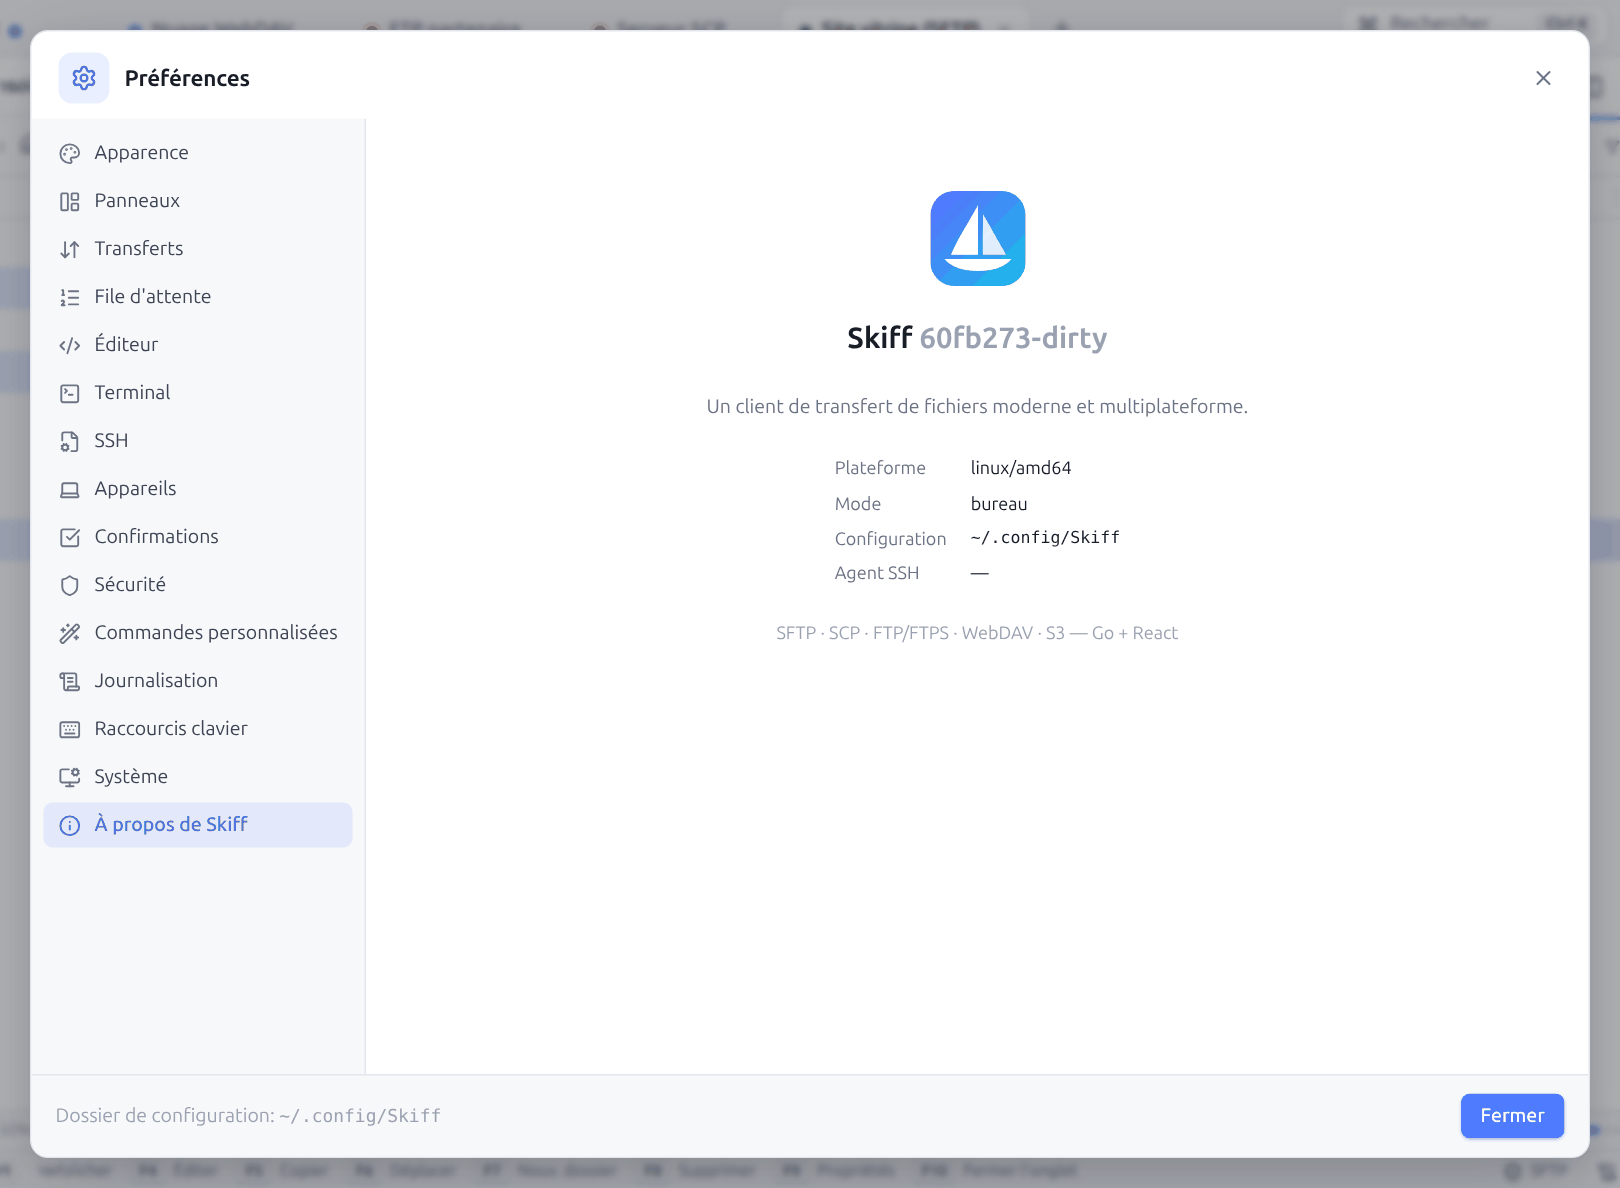
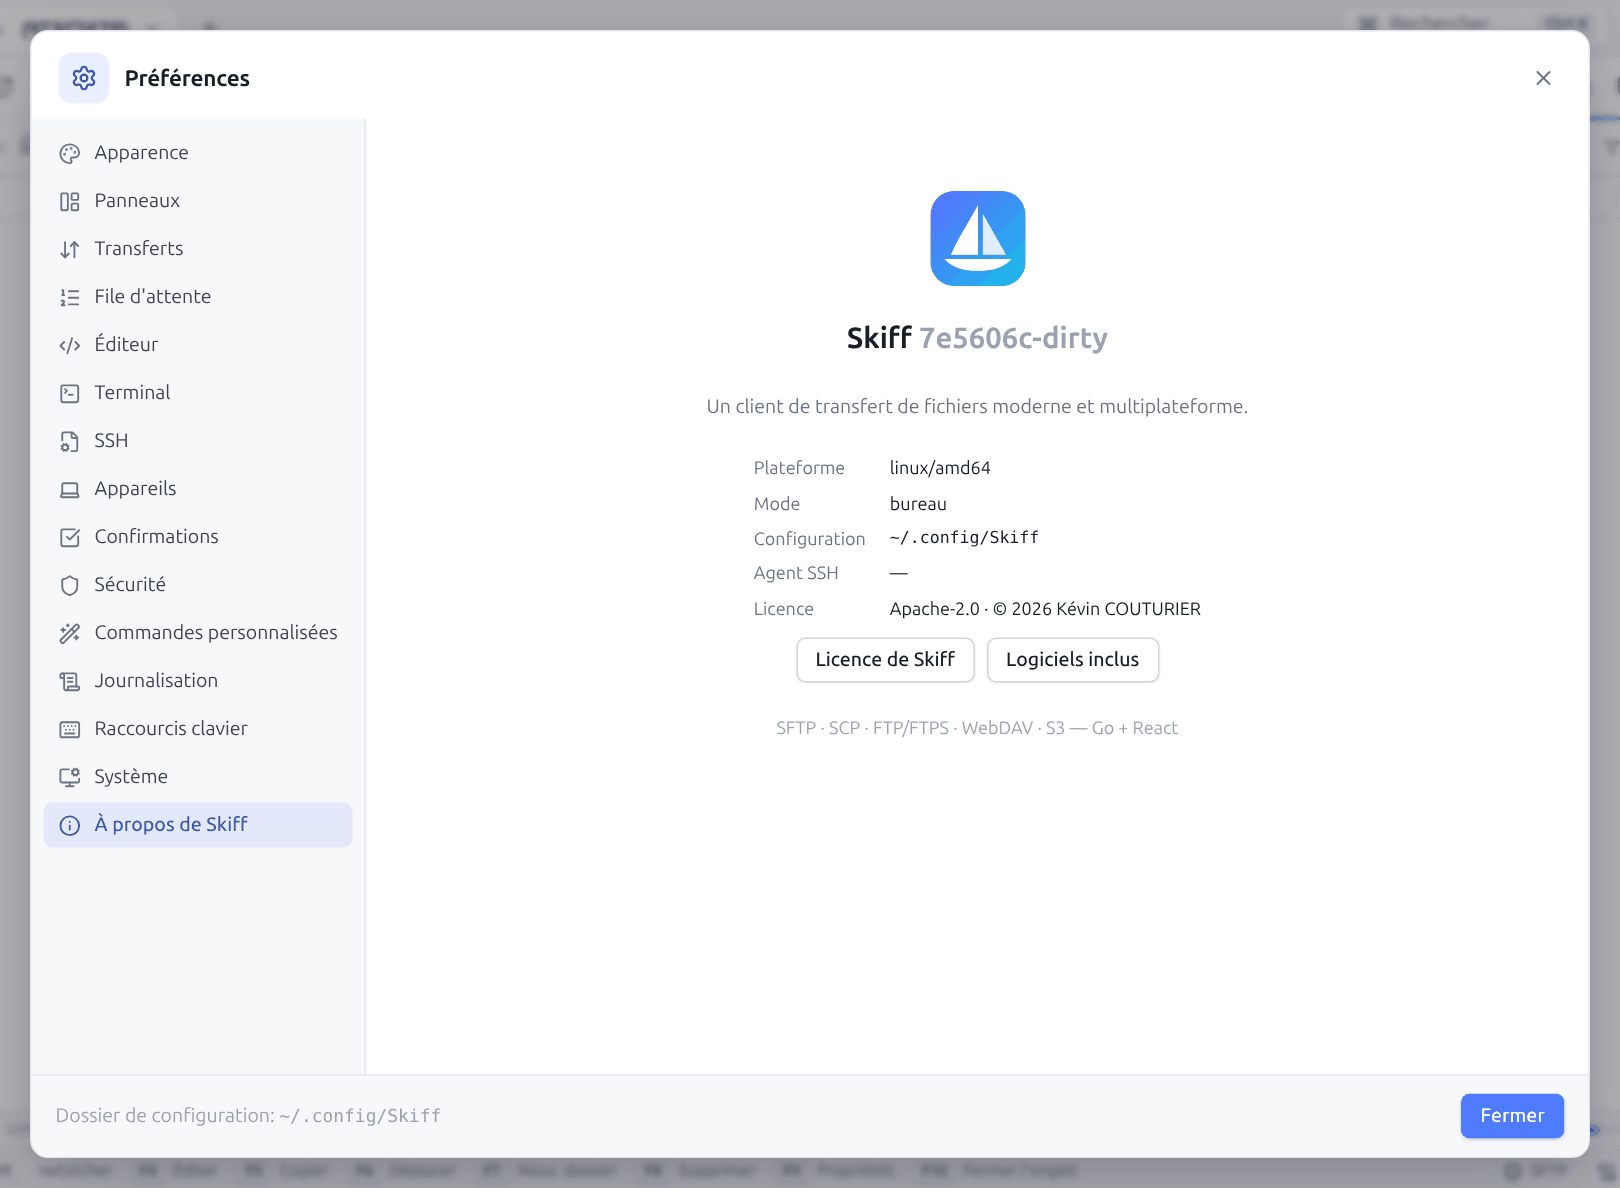
Document the licence
The licence of Skiff and of the software it includes in the README, the
About section (§ 12.15), "skiff licenses" (§ 13.12), chapter 1, and the
notices and compatible licences of dependencies for developers (§ 19.2).

diff --git a/docs/19-developpement.md b/docs/19-developpement.md
@@ -67,6 +67,17 @@ Les fichiers des installateurs sont dans `build/` :
 | `build/windows/installer.nsi`, `build/windows/icon.ico` | Installateur Windows (NSIS) |
 | `build/darwin/bundle.sh`, `build/darwin/dmg.sh`, `build/darwin/skiff.icns` | `Skiff.app` et son image disque |
 
+### Licences
+
+Skiff est sous licence Apache 2.0 (`LICENSE`, `NOTICE`) ; une contribution est faite sous la même licence. `THIRD_PARTY_NOTICES.txt` liste les bibliothèques compilées dans le programme, pour chaque système (`go list`) et pour l'interface (`pnpm licenses`), avec le texte de leur licence et leurs fichiers `NOTICE`. Le programme l'intègre (**À propos**, `skiff licenses`) et les installateurs le copient à côté de `LICENSE`.
+
+```bash
+python3 build/notices.py           # après un ajout ou une mise à jour de dépendance
+python3 build/notices.py --check   # dans ./build.sh test : échoue si le fichier n'est plus à jour
+```
+
+Une nouvelle dépendance doit avoir une licence compatible avec Apache 2.0 (MIT, BSD, ISC, Apache 2.0, MPL 2.0…) ; une bibliothèque GPL ou LGPL liée statiquement ne l'est pas.
+
 ## 19.3 Les tests
 
 Les tests de bout en bout s'exécutent contre les serveurs Docker de `testenv/` (lancés automatiquement par `itest` et `uitest`). Ils utilisent aussi le client OpenSSH de la machine (`ssh-agent`, `ssh-add`, `ssh-keygen`) pour l'agent et les certificats.

diff --git a/docs/01-installation.md b/docs/01-installation.md
@@ -13,7 +13,7 @@ Chaque système a son installateur :
 | Debian, Ubuntu, Linux Mint… (x64, ARM64) | `skiff_<version>_amd64.deb` (ou `_arm64.deb`) | `sudo apt install ./skiff_<version>_amd64.deb` : apt installe aussi WebKitGTK si besoin |
 | Autres Linux (x64, ARM64) | `Skiff-<version>-x86_64.AppImage` (ou `-aarch64`) | Rendez le fichier exécutable (`chmod +x Skiff-*.AppImage`, ou **Propriétés → Autoriser l'exécution**), puis lancez-le. Rien n'est installé |
 
-Tous ouvrent la **fenêtre native** : WebView2 sous Windows (préinstallé sur Windows 10/11), WKWebView sous macOS, WebKitGTK sous Linux.
+Skiff est un logiciel libre et gratuit, sous licence Apache 2.0. Tous ouvrent la **fenêtre native** : WebView2 sous Windows (préinstallé sur Windows 10/11), WKWebView sous macOS, WebKitGTK sous Linux.
 
 **Premier lancement sous Windows et macOS.** Les installateurs ne sont pas encore signés par un certificat d'éditeur. Windows affiche alors « Windows a protégé votre ordinateur » : cliquez sur **Informations complémentaires**, puis sur **Exécuter quand même**. macOS indique qu'il ne peut pas vérifier l'application : ouvrez **Réglages Système → Confidentialité et sécurité** et cliquez sur **Ouvrir quand même** en face de Skiff. Ces deux avertissements n'apparaissent qu'une fois.
 

diff --git a/README.md b/README.md
@@ -284,3 +284,13 @@ Serveurs de test (`testenv/docker-compose.yml`) : SSH `127.0.0.1:2222`, SSH anci
 - Le `chmod` FTP dépend du serveur (`SITE CHMOD`), et S3/WebDAV n'ont pas de droits Unix.
 - La file de transferts n'est pas conservée après un redémarrage.
 - Le glisser-déposer d'un fichier distant vers le bureau ne fonctionne qu'avec les moteurs Chromium (WebView2, Chrome, Edge).
+
+---
+
+## Licence
+
+Skiff est un logiciel libre, sous [licence Apache 2.0](LICENSE) : vous pouvez l'utiliser, le modifier et le redistribuer, y compris dans un cadre commercial, en gardant la licence et la mention [`NOTICE`](NOTICE). La licence n'accorde aucun droit sur le nom ni sur le logo de Skiff.
+
+Skiff inclut des bibliothèques sous leurs propres licences (MIT, BSD, ISC, Apache-2.0, Unlicense) : leur liste et leurs textes sont dans [`THIRD_PARTY_NOTICES.txt`](THIRD_PARTY_NOTICES.txt), dans **Préférences → À propos de Skiff** et dans `skiff licenses`.
+
+Copyright 2026 Laterna.

diff --git a/docs/13-scripts-cli.md b/docs/13-scripts-cli.md
@@ -16,6 +16,7 @@ skiff import <source> [fichier]  importe des sessions
 skiff task list | run <nom>      liste les tâches planifiées, ou en lance une
 skiff desktop-entry [-remove]    entrée du menu des applications (Linux)
 skiff url-handler [-register | -remove]  liens sftp://, ftp://… ouverts par Skiff
+skiff licenses [-full]           licence de Skiff et des logiciels qu'il inclut
 skiff version                    affiche la version
 skiff help                       affiche l'aide
 ```
@@ -252,6 +253,10 @@ skiff url-handler              # sftp:  Skiff, ftp:  Fichiers…
 skiff url-handler -register    # les liens s'ouvrent avec Skiff
 skiff url-handler -remove      # ils reviennent aux autres applications
 ```
+
+## 13.12 `skiff licenses`
+
+Affiche la mention de Skiff (licence Apache 2.0) et la liste des bibliothèques incluses avec leur licence ; `-full` ajoute le texte complet de chaque licence.
 
 ---
 

diff --git a/docs/12-preferences.md b/docs/12-preferences.md
@@ -206,7 +206,7 @@ En mode web, cette section n'existe pas : les liens sont ceux du serveur.
 
 ![Préférences : À propos](images/prefs-a-propos.png)
 
-La version, la **Plateforme** (système et architecture), le **Mode** (bureau ou web), le dossier de **Configuration** et la présence d'un **Agent SSH**.
+La version, la **Plateforme** (système et architecture), le **Mode** (bureau ou web), le dossier de **Configuration**, la présence d'un **Agent SSH** et la **Licence**. **Licence de Skiff** affiche la licence Apache 2.0 et la mention `NOTICE` ; **Logiciels inclus** liste les bibliothèques que Skiff contient, avec la licence et le texte de chacune (une recherche filtre la liste). Les mêmes textes s'affichent avec `skiff licenses` ([§ 13.12](13-scripts-cli.md#1312-skiff-licenses)).
 
 ---
 
